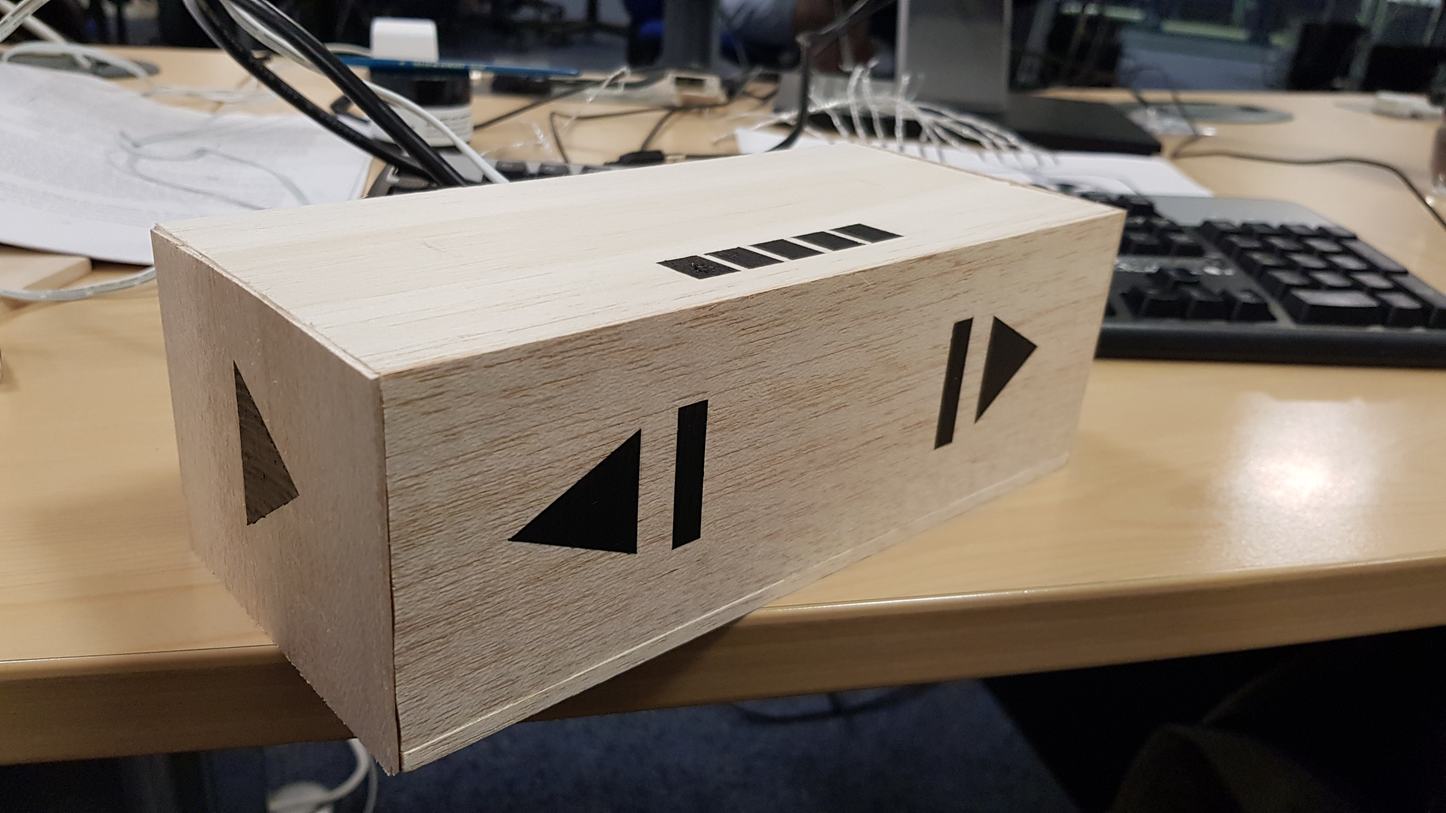
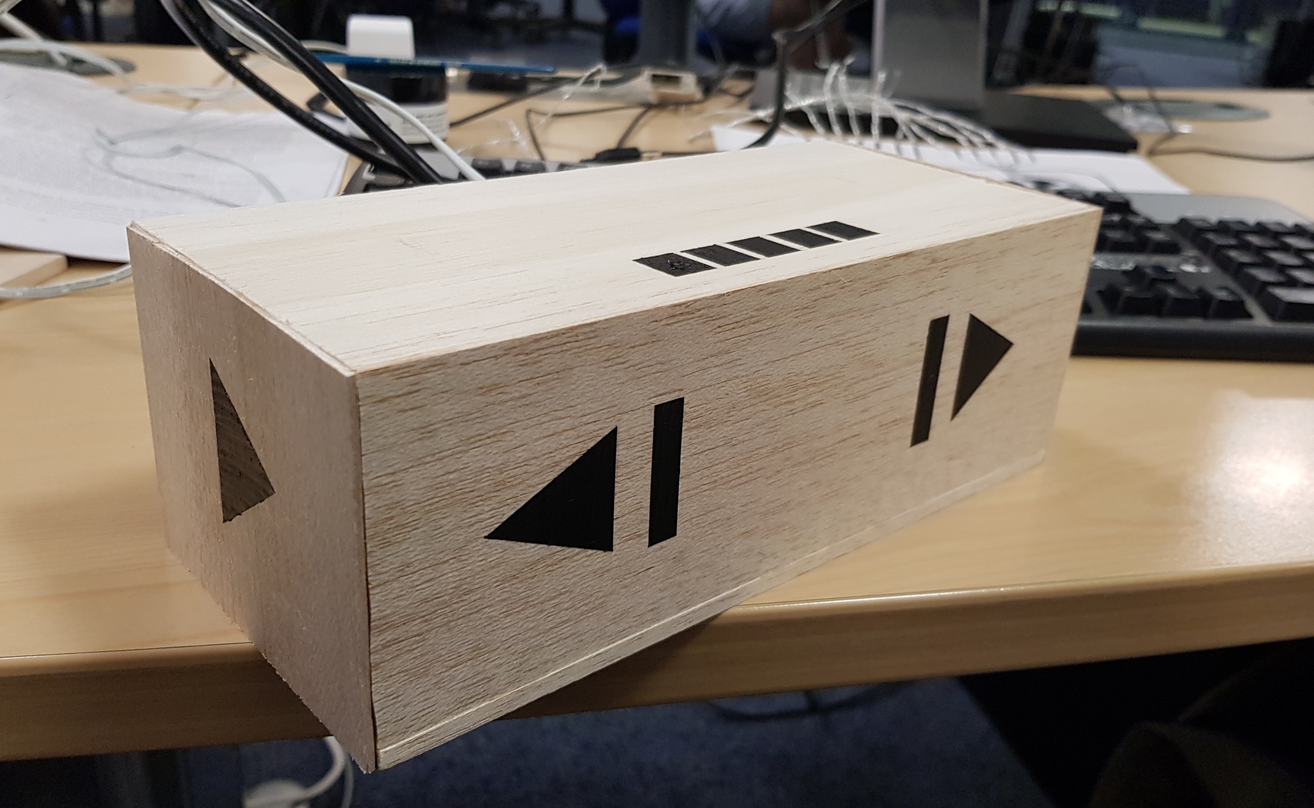
Adjusted photo dimensions

diff --git a/index.html b/index.html
@@ -167,7 +167,7 @@
 
           <div class="col-sm-4">
             <a href="codeforgood.html" class="hover">
-              <img src="./img/codeforgood2.jpg" alt="" class="img-responsive image">
+              <img src="./img/codeforgood2.png" alt="" class="img-responsive image">
               <div class="overlay">
                 <div class="text">
                   <p>Code For Good 2018</p>
